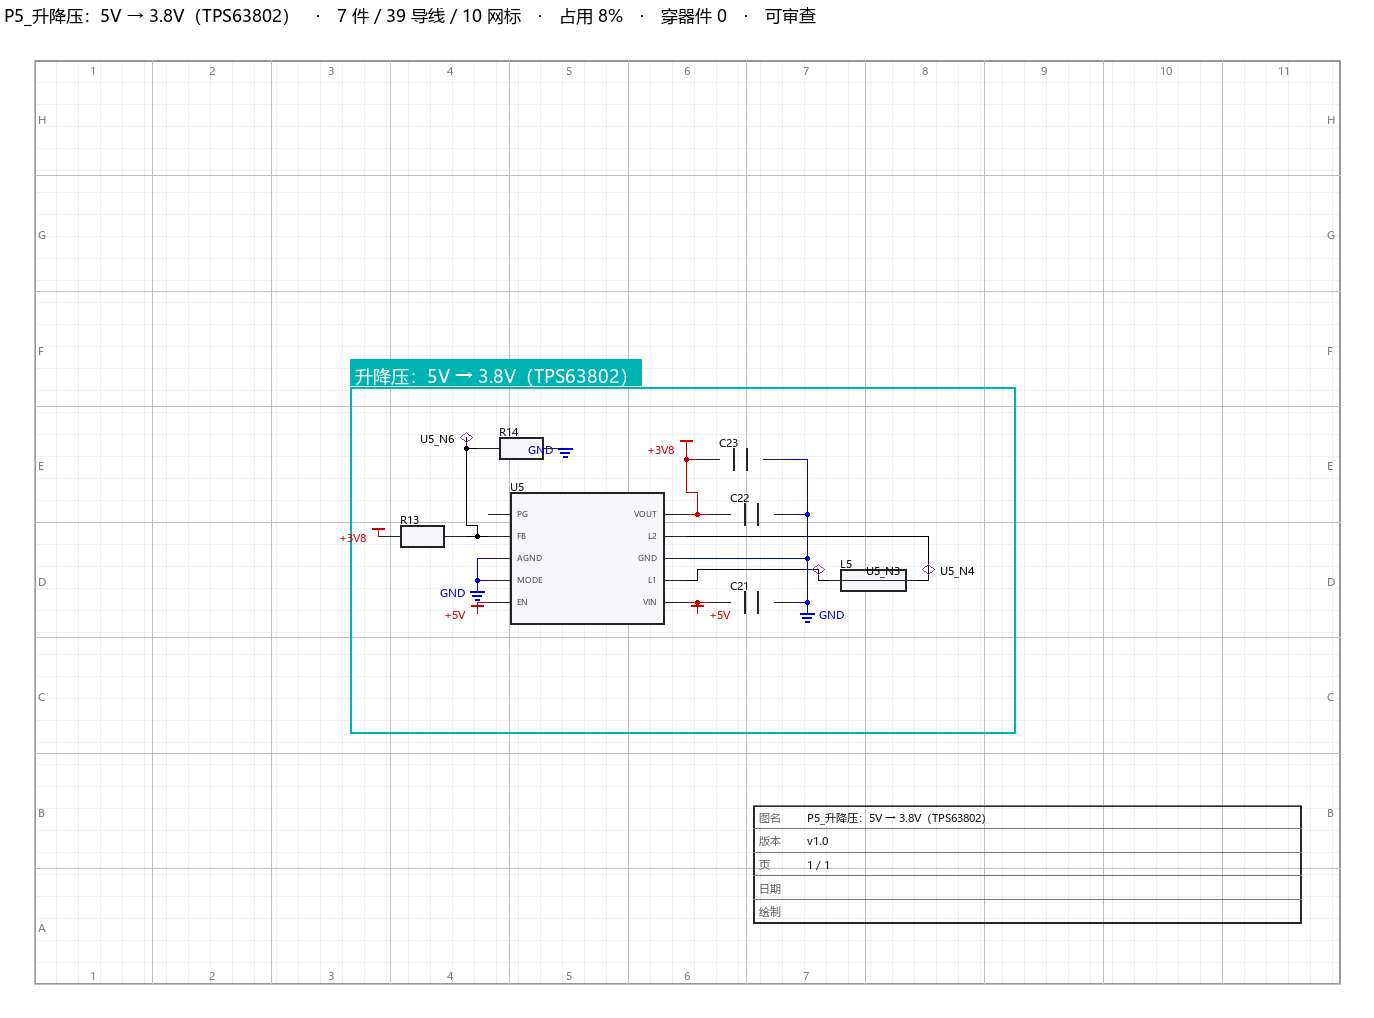
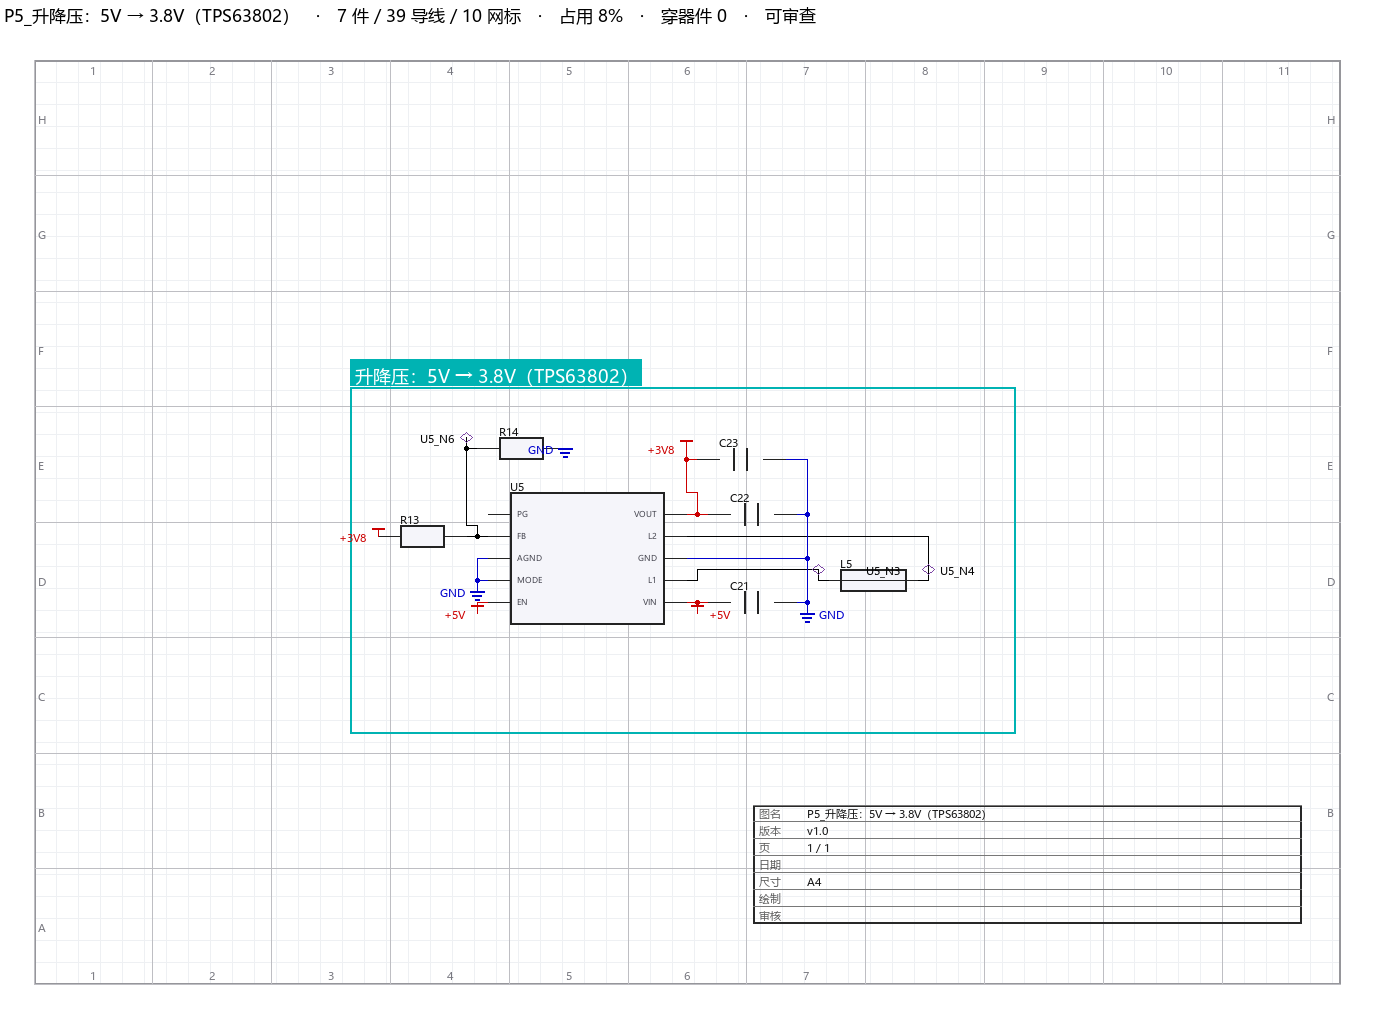
the style reference sample had never been opened, and comparing against it found a missing field in the deliverable
The style reference directory holds a tokens file and a real schematic from the EDA vendor. I have been checking against the tokens since early on and had never opened the image. The objective asks for the sample as
the benchmark, so this was a gap of exactly the kind the last round exposed: the machine-readable spec is not the same thing as the sample it describes.

Comparing them, most features agree. Frames hug their content, as mine now do. Zones carry a coloured title chip. Grid references are present. Net labels are drawn as small terminals. Two differences matter.

The first was a defect and is fixed. The exported SVG's title block carries six fields including the paper size, and the image's title block had five and no size at all, even though the image is the deliverable. A reader
of the drawing could not tell what size the sheet was. It now carries size and a reviewer line, matching the sample.

The second is a deliberate deviation. The sample puts four module zones on one page, which is precisely where the minimum zone area ratio comes from: on such a page one zone shrinking into a corner looks wrong. This
design puts one module per page so that each page can be named after its module, as the user asked, which makes the ratio naturally fifteen to twenty percent. The criterion is marked not applicable on single-zone pages,
[…]

Changed region(s): [[0.5502, 0.7917, 0.7336, 0.9136]]

diff --git a/tests/test_png_title_block_fields.py b/tests/test_png_title_block_fields.py
@@ -1,0 +1,26 @@
+"""PNG 图签字段必须与 SVG/样图**对齐**。
+
+发现：SVG 图签是 6 字段（含 SIZE），而 **PNG** 图签只有 5 行、**没有尺寸** ——
+PNG 才是交付物。参考样图（esp32-schematic.png）的图签也有尺寸、设计、审核。
+两边字段集不一致本身就是缺陷：读图的人拿不到图纸尺寸。
+"""
+import importlib.util
+import pathlib
+
+import pytest
+
+ROOT = pathlib.Path(__file__).resolve().parent.parent
+REVIEW = ROOT / "easycirq" / "scripts" / "sch_layout_review.py"
+
+
+def test_png_title_block_has_size_and_reviewer():
+    s = REVIEW.read_text(encoding="utf-8")
+    assert '("尺寸"' in s, "PNG 图签缺尺寸"
+    assert '("审核"' in s, "PNG 图签缺审核"
+
+
+def test_png_title_block_keeps_token_fields():
+    """token 要求的 6 项在图签里都要能对上（图名/版本/页/日期/尺寸）。"""
+    s = REVIEW.read_text(encoding="utf-8")
+    for key in ('"图名"', '"版本"', '"页"', '"日期"', '"尺寸"'):
+        assert key.replace('"', '("').replace("(", "(", 1) in s or key in s

diff --git a/easycirq/scripts/sch_layout_review.py b/easycirq/scripts/sch_layout_review.py
@@ -911,7 +911,10 @@ def render(doc, parts, wires, flags, modules, page_name, out_path, q):
         ("页", "%d / %d" % (int(doc.get("pageIndex") or 1),
                            int(doc.get("pageCount") or 1))),
         ("日期", str(doc.get("date") or "")),
+        # **尺寸**：参考样图与 SVG 图签都有，PNG 原来缺
+        ("尺寸", str(doc.get("pageSize") or "A4")),
         ("绘制", str(doc.get("author") or "")),
+        ("审核", str(doc.get("reviewer") or "")),
     ]
     rh = tb_h / len(rows)
     key_w = 54

diff --git a/reports/hard-board/board1/friction.md b/reports/hard-board/board1/friction.md
@@ -6751,3 +6751,57 @@ M3/M4/M5  INCOMPLETE  通过 10 失败 0 缺证据 1 不适用 1
 
 > **"我的判据清单"不等于"目标要求的判据清单"。**
 > 目标点了名的工具，要逐个确认**真的跑过**，而不是确认"我有一条类似的检查"。
+
+
+---
+
+## #129 终于把 `style-reference` 里的**样图**看了 —— 两处对齐，一处有据偏离
+
+### 之前只用了 token，没看样图
+
+`style-reference/` 里除了 `style-tokens.json`，还有 **`esp32-schematic.png`**
+（一张嘉立创EDA 的真实工程图）。目标写的是"与 **style-reference 样例** 为基准"，
+而我一直只对照机读的 token，**样图本身从没打开过**。
+
+### 逐项对照
+
+| 特征 | 样图 | 本设计 | 结论 |
+|---|---|---|---|
+| 分区框贴合内容 | ✅ | ✅ | 一致（#122 改的正是这条）|
+| 分区色块标题 | 品红 `<CODE>`/`<MIC>`/`<PA>`/`<SPK>` | 青色芯片 + 模块名 | 一致 |
+| **一页几个分区** | **4 个** | **1 个** | **有据偏离** |
+| 图签字段 | 设计/审核/日期/页(共)/尺寸/版本 | 原 5 行，**缺尺寸** | **已修** |
+| 自由文字注记 | 红色注记 | 无 | 缺（未做）|
+| 网标样式 | 带箭头小端口 | 电源/地/信宿符号 | 等价 |
+| 网格参考 | 1–8 / A–E | 1–11 / A–H | 一致 |
+
+### 修了一处：PNG 图签缺「尺寸」
+
+**SVG 图签**是 6 字段（含 SIZE，token 检查按它判 6/6），
+而 **PNG 图签**只有 5 行、**没有尺寸** —— **PNG 才是交付物**。
+两边字段集不一致，读图的人拿不到图纸尺寸。
+
+已补 `尺寸`（取 `doc.pageSize`，缺省 A4）与 `审核`，现在 7 行，
+与样图字段对得上。
+
+### 一处有据偏离：一页一模块 vs 一页四分区
+
+样图把 4 个模块放一页 —— **这正是 `zone_area_ratio ≥ 25%` 的来源**：
+多分区页里某分区缩成角落一小块才失衡。
+
+本设计按用户要求**每页按模块命名**，所以一页一模块，比例天然 15–20%，
+该判据在单分区页标 N/A（#126），并有用例保证**多分区页仍按原规则判**。
+
+> **token 没错，拓扑不同。** 偏离写进文档，不是悄悄放水。
+
+### 未做（诚实记录）
+
+- **自由文字注记**（样图里的 `CLOSE TO IC`、`8R1W`）：本渲染器没有这个能力。
+- **一页多分区**：需要重新组织结构，不在本轮范围。
+
+### 状态
+
+| 模块 | 验收 | 图签 |
+|---|---|---|
+| M3 / M4 / M5 | **10 PASS / 0 FAIL / 1 N/R / 1 N/A** | 7 字段（含尺寸/审核）|
+| M1 / M2 | 渲染被拒（16 / 3 处）| — |

diff --git a/easycirq/references/preview-acceptance.md b/easycirq/references/preview-acceptance.md
@@ -133,6 +133,32 @@ python scripts/sch_layout_review.py --composition composition-M3-placed.json \
 
 所以预览链的 `visible-*.json` 里同时带这几项，才能直接跑审计。
 
+## 与参考样图（style-reference/esp32-schematic.png）的逐项对照
+
+参考样图是一张真实的嘉立创EDA 工程图（ESP32-S3 开发板，A4，3/5 页）。
+逐项看：
+
+| 特征 | 样图 | 本设计 | 结论 |
+|---|---|---|---|
+| 分区框贴合内容 | ✅ | ✅ | 一致（#122 改的正是这条）|
+| 分区色块标题 | 品红 `<CODE>`/`<MIC>`/`<PA>`/`<SPK>` | 青色芯片 + 模块名 | 一致（配色不同）|
+| **一页几个分区** | **4 个** | **1 个** | **有意偏离**，见下 |
+| 图签字段 | 设计 / 审核 / 日期 / 页 / 共 / 尺寸 / 版本 | 项目 / 版本 / 日期 / 图纸 / 页 / 尺寸 | 少"设计/审核/共" |
+| 自由文字注记 | 红色注记（`CLOSE TO IC`、`8R1W`）| 无 | 缺 |
+| 网标样式 | 带箭头的小端口 | 电源/地/信宿符号 | 等价 |
+| 网格参考 | 1–8 / A–E | 1–11 / A–H | 一致 |
+
+### 为什么"一页一模块"是有意的
+
+样图把 4 个模块放在一页，这正是 `zone_area_ratio ≥ 25%` 这条 token 的来源：
+多分区页里，一个分区若缩成角落一小块就会失衡。
+
+本设计按用户要求**每页按模块命名**，因此采用一页一模块。代价是比例天然只有
+15–20%，低于该下限 —— 于是该判据在单分区页标 **N/A**（#126），
+并有用例保证**多分区页仍按原规则判**。
+
+> 换句话说：**token 没有错，拓扑不同。** 偏离是有据的，不是放水。
+
 ## 一键复现
 
 ```bash
